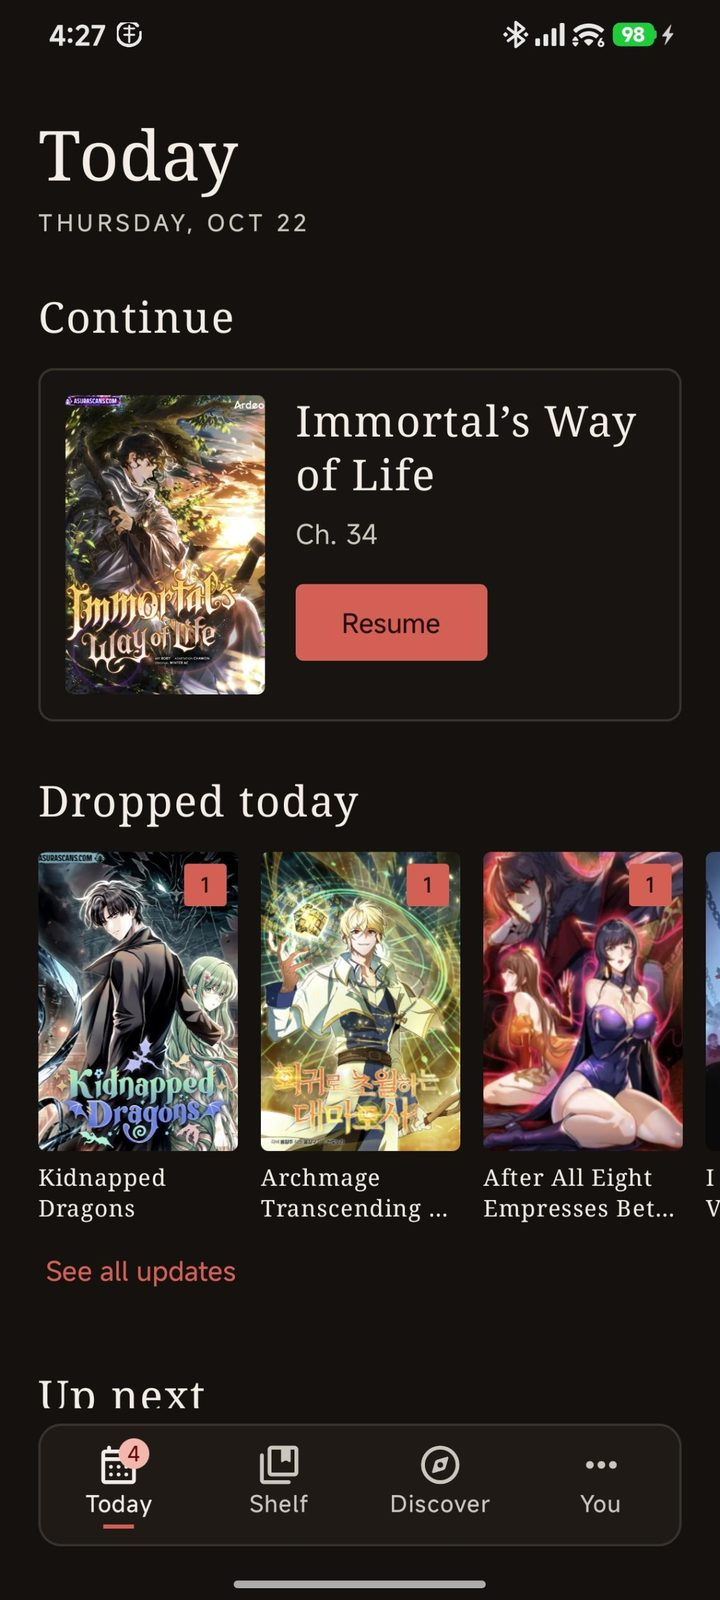
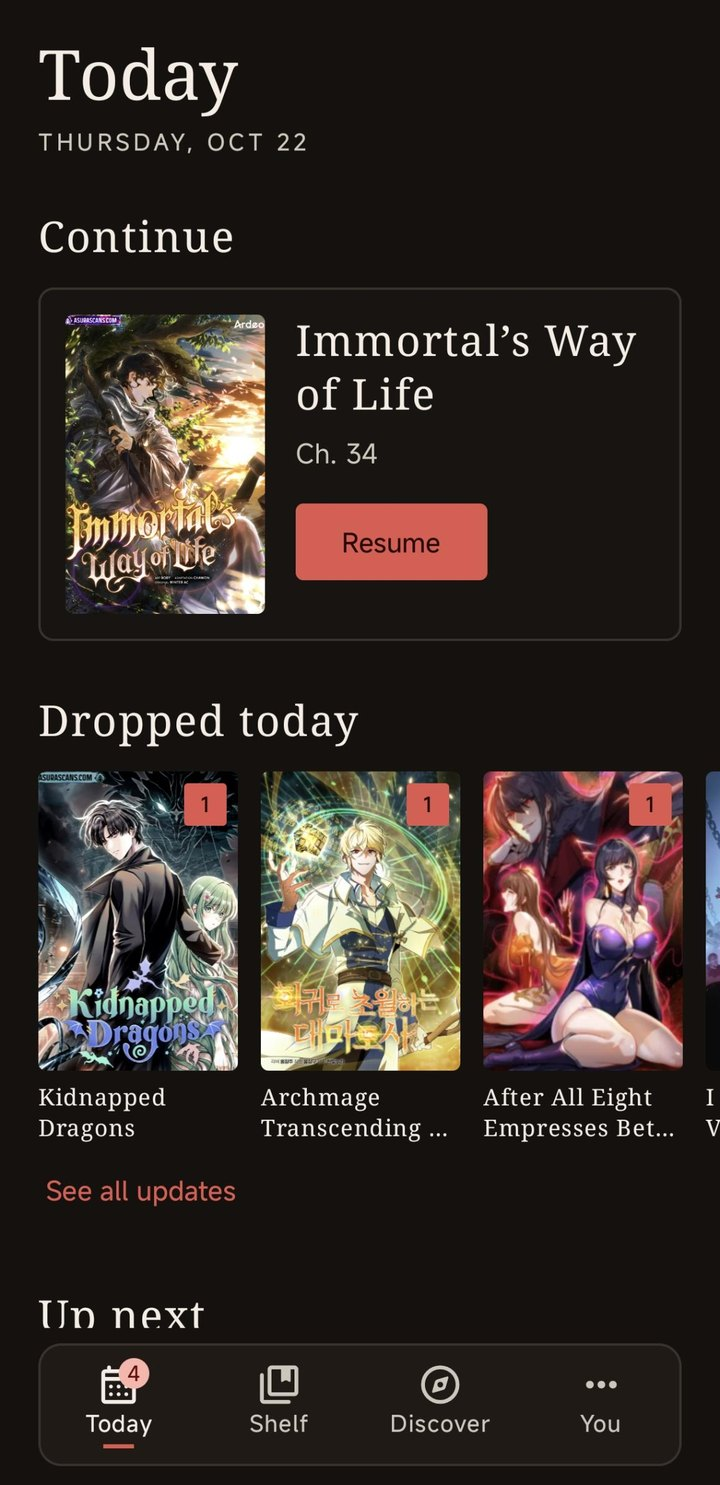
Site: plain screenshots, no phone frame or status bar

diff --git a/server/public/index.html b/server/public/index.html
@@ -37,7 +37,7 @@
 <p class="dlmeta" id="dl-meta" aria-live="polite"></p>
 <ul class="badges"><li>No ads</li><li>No tracking</li><li>Local-first</li><li>Android 8+</li></ul>
 </div>
-<div class="phones"><div class="phone solo"><picture><source srcset="/img/screens/today.webp" type="image/webp"><img src="/img/screens/today.jpg" width="720" height="1600" alt="MoMan Today screen: a Continue card with a Resume button and a Dropped today row of new chapters" fetchpriority="high" decoding="async"></picture></div>
+<div class="phones"><div class="phone solo"><picture><source srcset="/img/screens/today.webp" type="image/webp"><img src="/img/screens/today.jpg" width="720" height="1485" alt="MoMan Today screen: a Continue card with a Resume button and a Dropped today row of new chapters" fetchpriority="high" decoding="async"></picture></div>
 </div></section>
 
 <section id="features" class="alt"><div class="wrap">
@@ -56,9 +56,9 @@
 <div class="sec-h"><h2><span class="seal-mark"></span>A look inside</h2><p>Real screenshots from the app. Swipe or scroll sideways; tap a screen to enlarge it.</p></div>
 </div>
 <div class="shots" role="region" aria-label="App screenshots" tabindex="0"><div class="shots-track">
-<figure class="shot"><button type="button" class="shot-open" data-full="/img/screens/today.jpg" data-alt="MoMan Today screen" aria-label="Enlarge screenshot: Today"><span class="bezel"><picture><source srcset="/img/screens/today.webp" type="image/webp"><img src="/img/screens/today.jpg" width="720" height="1600" loading="lazy" decoding="async" alt="MoMan Today screen with a Continue card and a Dropped today row of new chapters"></picture></span></button><figcaption><strong>Today</strong> Pick up where you left off, and see what dropped.</figcaption></figure>
+<figure class="shot"><button type="button" class="shot-open" data-full="/img/screens/today.jpg" data-alt="MoMan Today screen" aria-label="Enlarge screenshot: Today"><span class="bezel"><picture><source srcset="/img/screens/today.webp" type="image/webp"><img src="/img/screens/today.jpg" width="720" height="1485" loading="lazy" decoding="async" alt="MoMan Today screen with a Continue card and a Dropped today row of new chapters"></picture></span></button><figcaption><strong>Today</strong> Pick up where you left off, and see what dropped.</figcaption></figure>
 <!-- To add a screenshot: save it as /img/screens/NAME.webp (max 720px wide) plus NAME.jpg, then copy a <figure class="shot"> above and change the file names, data-full, alt text and caption. Use real screenshots only.
-<figure class="shot"><button type="button" class="shot-open" data-full="/img/screens/shelf.jpg" data-alt="MoMan Shelf screen" aria-label="Enlarge screenshot: Shelf"><span class="bezel"><picture><source srcset="/img/screens/shelf.webp" type="image/webp"><img src="/img/screens/shelf.jpg" width="720" height="1600" loading="lazy" decoding="async" alt="MoMan Shelf screen"></picture></span></button><figcaption><strong>Shelf</strong> Your library, yours alone.</figcaption></figure>
+<figure class="shot"><button type="button" class="shot-open" data-full="/img/screens/shelf.jpg" data-alt="MoMan Shelf screen" aria-label="Enlarge screenshot: Shelf"><span class="bezel"><picture><source srcset="/img/screens/shelf.webp" type="image/webp"><img src="/img/screens/shelf.jpg" width="720" height="1485" loading="lazy" decoding="async" alt="MoMan Shelf screen"></picture></span></button><figcaption><strong>Shelf</strong> Your library, yours alone.</figcaption></figure>
 <figure class="shot">... Reader: Gapless long-strip reading ...</figure>
 <figure class="shot">... Discover: Browse your sources ...</figure>
 <figure class="shot">... You: Settings, backups and trackers ...</figure>

diff --git a/server/public/styles.css b/server/public/styles.css
@@ -87,3 +87,8 @@ footer p{max-width:62ch;margin:.5em 0}footer ul{list-style:none;padding:0;margin
 .lb p{margin:0;color:#d8cdc1;font-size:.92rem}
 .lb-x{position:absolute;top:14px;right:14px;width:44px;height:44px;border-radius:12px;border:1px solid #3a312b;background:#221c18;color:#F4EDE4;font-size:1.4rem;cursor:pointer}
 body.lb-open{overflow:hidden}
+/* Plain screenshots: no phone frame, no bezel */
+.phone,.phone.solo,.bezel{background:none;border:0;padding:0;box-shadow:none;border-radius:0;aspect-ratio:auto}
+.phone.solo{width:min(300px,78vw)}
+.phone img,.bezel img{width:100%;height:auto;aspect-ratio:auto;object-fit:contain;border-radius:16px;box-shadow:0 18px 50px rgba(30,15,5,.28);display:block}
+.shot-open{border-radius:16px}
